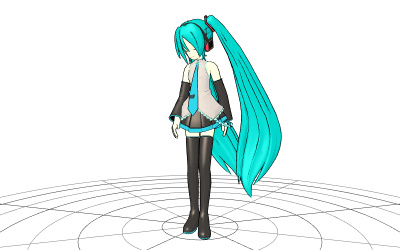
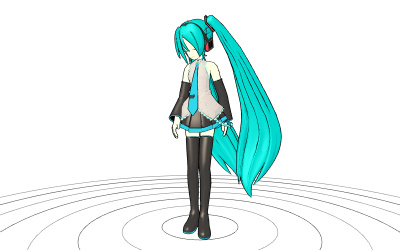
Examples: Improved webgl_loader_mmd and webgl_loader_mmd_audio.

diff --git a/examples/webgl_loader_mmd_audio.html b/examples/webgl_loader_mmd_audio.html
@@ -8,6 +8,7 @@
 		<style>
 			body {
 				color: #444;
+				background: #fff;
 			}
 			a {
 				color: #08f;
@@ -86,7 +87,7 @@
 				scene = new THREE.Scene();
 				scene.background = new THREE.Color( 0xffffff );
 
-				scene.add( new THREE.PolarGridHelper( 30, 10 ) );
+				scene.add( new THREE.PolarGridHelper( 30, 0 ) );
 
 				const listener = new THREE.AudioListener();
 				camera.add( listener );

diff --git a/examples/webgl_loader_mmd.html b/examples/webgl_loader_mmd.html
@@ -82,7 +82,7 @@
 				scene = new THREE.Scene();
 				scene.background = new THREE.Color( 0xffffff );
 
-				const gridHelper = new THREE.PolarGridHelper( 30, 10 );
+				const gridHelper = new THREE.PolarGridHelper( 30, 0 );
 				gridHelper.position.y = - 10;
 				scene.add( gridHelper );
 
